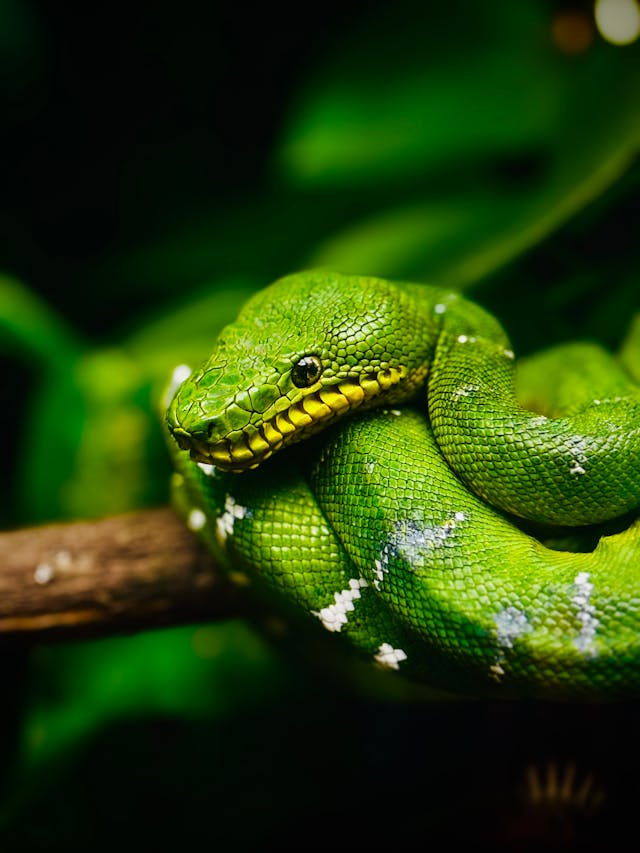
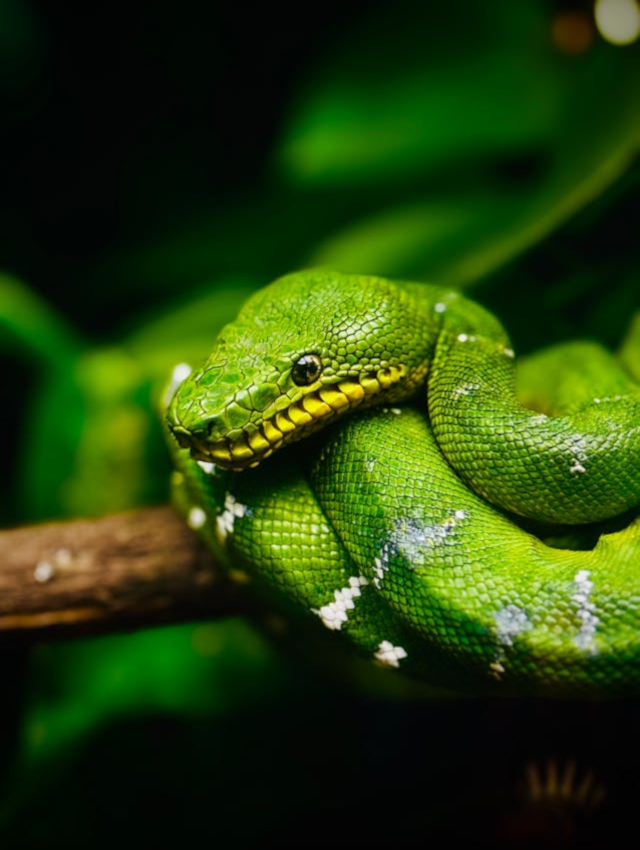
Ajustes visuais

diff --git a/style.css b/style.css
@@ -177,6 +177,7 @@ div#barra-busca > span > a > img:hover {
 }
 
 div#completar {
+    display: none;
     position: absolute;
     margin-left: 8%;
     width: 15%;
@@ -210,7 +211,7 @@ div.Imagem {
     margin-right: 35px;
     border-radius: 8px;
 
-    box-shadow: 10px 5px 10px rgba(0, 0, 0, 0.411);
+    box-shadow: 2px 2px 8px rgba(0, 0, 0, 0.411);
     transition: 0.3s;
 }
 
@@ -224,7 +225,7 @@ div.Imagem>img {
     max-width: 500px;
     height: 100%;
     margin-bottom: -5px;
-    border-radius: 8px;
+    border-radius: 8px; 
     border: 5px solid rgba(0, 133, 0, 0.5);
 }
 
@@ -283,13 +284,6 @@ div.informacao > ul {
     animation-timing-function: ease-in-out;
 }
 
-#imgInicio {
-    animation-name: imgInicio;
-    animation-duration: 4s;
-    animation-iteration-count: infinite;
-    animation-timing-function: ease-in-out;
-}
-
 @keyframes aparecer {
     from {
         transform: translateX(100px);
@@ -320,18 +314,6 @@ div.informacao > ul {
     to {
         transform: translateY(0px);
         opacity: 100%;
-    }
-}
-
-@keyframes imgInicio {
-    0% {
-        transform: translateY(0px);
-    }
-    50% {
-        transform: translateY(-30px);
-    }
-    100% {
-        transform: translateY(0px);
     }
 }
 
@@ -385,7 +367,7 @@ button {
     border-radius: 10px;
 
     padding: 12px;
-    margin-right: 18px;
+    margin-top: 10px;
 
     box-shadow: 0px 0px 10px rgba(0, 0, 0, 0.365);
 
@@ -449,6 +431,11 @@ footer > p {
         justify-content: center;
         align-items: center;
         flex-flow: column nowrap;
+
+    }
+
+    div.busca:not(div.busca:first-child) {
+        margin-top: 60px;
     }
 
     div.Imagem {
@@ -466,6 +453,10 @@ footer > p {
 
     div.conteudo > h2 {
         width: 100%;
+    }
+
+    div.conteudo > button {
+        margin-top: 20px;
     }
 }
 

diff --git a/index.html b/index.html
@@ -39,7 +39,7 @@
         <div id="inicio" class="Animais">
 
             <div id="barra-busca">
-                <input type="text" name="pesquisa" id="pesquisa" placeholder="Nome Animal" autocomplete="off">
+                <input type="text" name="pesquisa" id="pesquisa" placeholder="Ex: Aranha, escorpião etc..." autocomplete="off">
                 <span><a href="#res-busca"><img src="imagens-animais-peconhentos/lupa.png" alt="lupa" id="lupa"></a></span>
                 <div id="completar">
 
@@ -47,8 +47,8 @@
             </div>
 
             <div class="busca">
-                <div class="Imagem" id="imgInicio">
-                    <img src="imagens-animais-peconhentos/pexels-erik-karits-2093459-18159680.jpg">
+                <div class="Imagem">
+                    <img src="imagens-animais-peconhentos/Cobra-inicio.jpg">
                 </div>
                 <div class="conteudo">
                     <h2>Inicio</h2>

diff --git a/css/sobre.css b/css/sobre.css
@@ -8,7 +8,7 @@
 
 body {
     font-family: Arial, Helvetica, sans-serif;
-    background-image: url(../imagens-animais-peconhentos/folhas2.jpg);
+    background-image: url(../imagens-animais-peconhentos/folhas-bck.jpg);
     background-repeat: no-repeat;
     background-position: center center;
     background-size: cover;
@@ -369,7 +369,7 @@ p>span::before {
     display: inline-block;
     width: 10px;
     height: 10px;
-    background-color: rgb(101, 184, 101);
+    background-color: green;
 
     border-radius: 50%;
     margin-right: 10px;
@@ -493,7 +493,7 @@ footer > p {
         display: flex;
         justify-content: space-between;
         align-items: center;
-        flex-flow: row nowrap;
+        flex-flow: row-reverse nowrap;
     }
 
     div.Imagem {

diff --git a/script.js b/script.js
@@ -37,6 +37,7 @@ function Pesquisar(pesquisa) {
 function complete(p, pesquisa, divCom) {
     pesquisa.value = p.innerHTML;
     divCom.innerHTML = " ";
+    divCom.style.display = "none";
 }
 
 function completar(pesquisa) {
@@ -64,6 +65,7 @@ function completar(pesquisa) {
                 }
 
                 if (res) {
+                    divCom.style.display = "block";
                     let p = document.createElement("p");
                     p.innerHTML = Animais[i].Titulo;
                     p.setAttribute("class", "animal-busca");
@@ -90,6 +92,7 @@ function completar(pesquisa) {
 
     } else {
         divCom.innerHTML = " ";
+        divCom.style.display = "none";
     }
         
 }

diff --git a/css/contato.css b/css/contato.css
@@ -348,7 +348,7 @@ div.conteudo>h2 {
     padding: 10px;
     margin-bottom: 10px;
 
-    background-image: linear-gradient(to right, rgb(42, 156, 42), transparent);
+    background-image: linear-gradient(to right, rgb(101, 184, 101), transparent);
     width: 50%;
     border-radius: 8px;
 }
@@ -493,7 +493,7 @@ footer > p {
         display: flex;
         justify-content: space-between;
         align-items: center;
-        flex-flow: row nowrap;
+        flex-flow: row-reverse nowrap;
     }
 
     div.Imagem {
